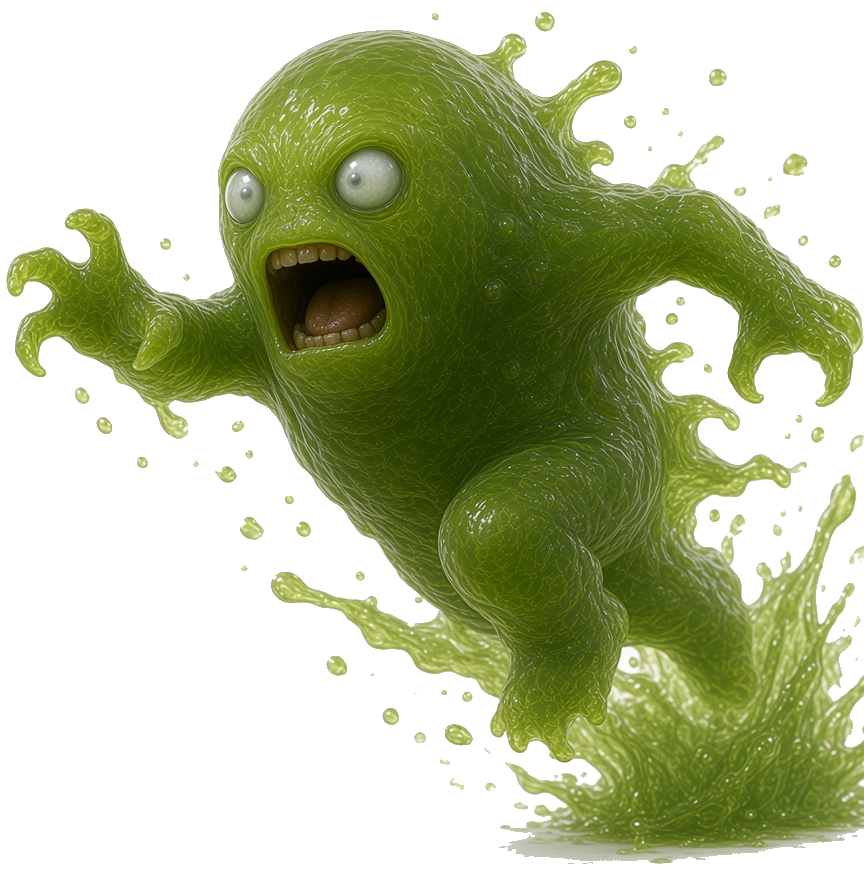
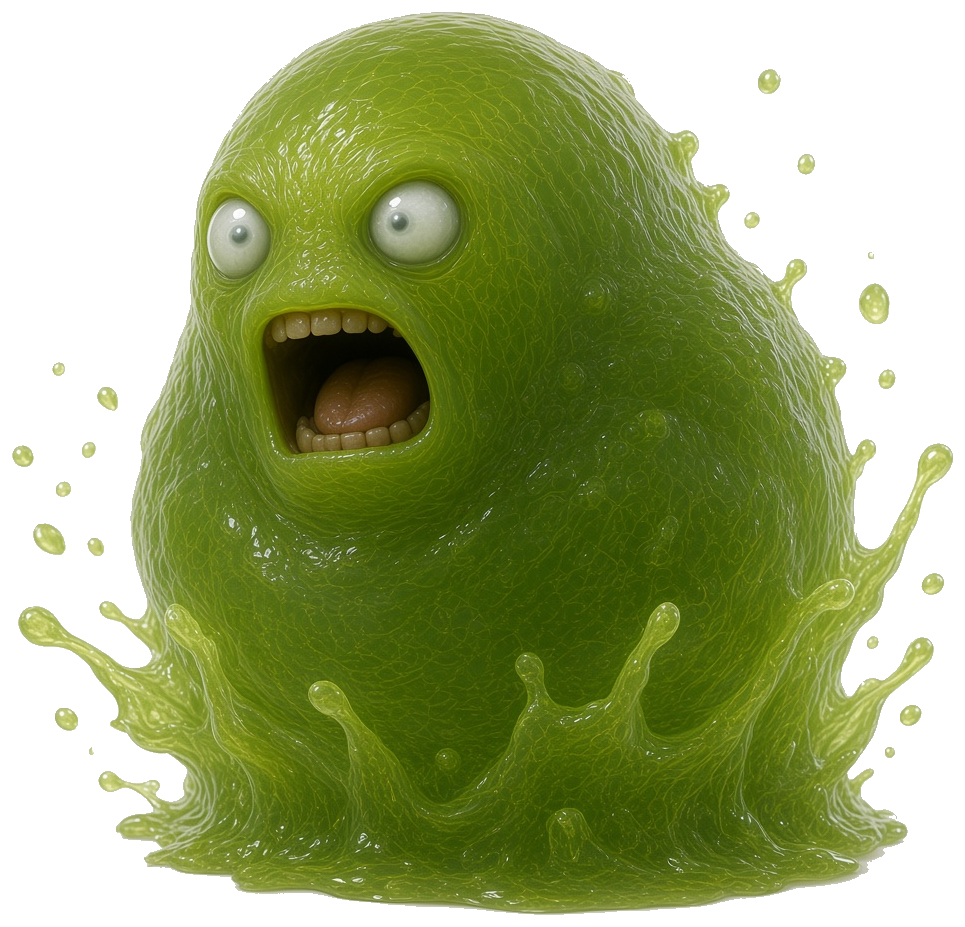
Redraw the slime as a blob without limbs.

diff --git a/index.html b/index.html
@@ -2105,7 +2105,7 @@
     const ENEMIES = [
       {
         name: "スライム",
-        image: "enemy-slime.png?v=3",
+        image: "enemy-slime.png?v=4",
         tier: 1,
         rank: "雑魚",
         hp: 22,
@@ -3978,7 +3978,7 @@
             <p class="sheet-cap">1層目。挑戦者に祝福を。大きな目の気。</p>
             <h3>敵</h3>
             <div class="ref-grid">
-              <figure><img class="enemy-ref" src="enemy-slime.png?v=3" alt=""><figcaption>スライム</figcaption></figure>
+              <figure><img class="enemy-ref" src="enemy-slime.png?v=4" alt=""><figcaption>スライム</figcaption></figure>
               <figure><img class="enemy-ref" src="enemy-goblin.png?v=3" alt=""><figcaption>ゴブリン</figcaption></figure>
               <figure><img class="enemy-ref" src="enemy-minotaur.png?v=3" alt=""><figcaption>ミノタウロス</figcaption></figure>
             </div>
@@ -4724,7 +4724,7 @@
             </section>
             <div class="enemy-main${encounter ? " arrive" : ""}">
             <div class="sprite${slashNow ? " slash" : ""}" aria-hidden="true">
-              <img src="${esc(enemy.image || "enemy-slime.png?v=3")}" alt="">
+              <img src="${esc(enemy.image || "enemy-slime.png?v=4")}" alt="">
               ${slashNow ? `<span class="cut" style="--pow:${hitNow && hitNow.side === "enemy" ? hitPow : "0.35"}"></span>` : ""}
             </div>
             </div>
